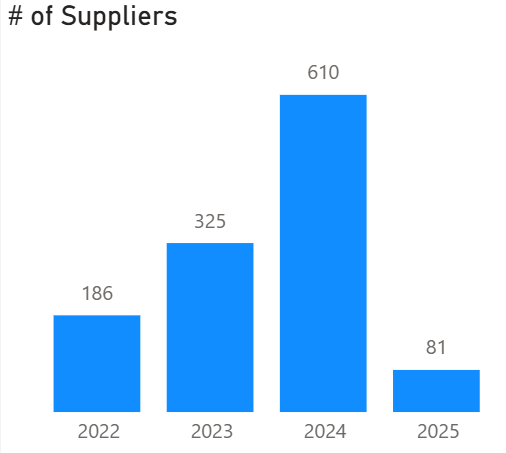
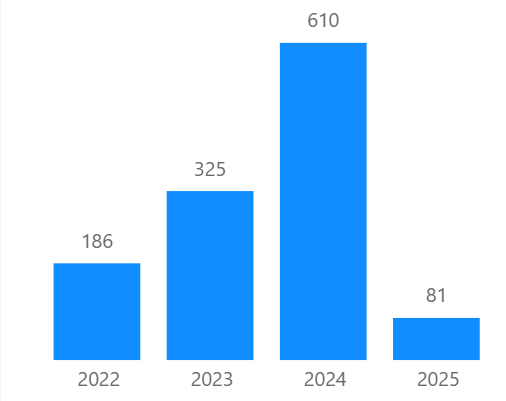
Final update

diff --git a/README.md b/README.md
@@ -194,7 +194,8 @@ You can download the Power BI dashboard [here](code/LeuleuReport.pbix):
 - The **Monthly Volume of Orders chart** supports this observation, showing that while **average items per order have declined each year, average orders per month have significantly increased** (except for 2025, which currently only includes January—a historically low-order month).
 - The **Supplier Summary Table** provides insights into this strategy. The number of suppliers increased from **186 in 2022 to 325 in 2023, and 610 in 2024—a 200% annual growth rate**. This suggests the business is actively **sourcing from more suppliers** to **diversify its product offerings**, leading to an increase in order frequency while reducing the quantity per order.
 
-     <img src='image/Num_of_supplier.png' width=500>
+     <img src='image/Num_of_supplier.png' width=300 >
+     <figcaption>Bar chart demonstrating the number of suppliers per year</figcaption>
 
 #### Supplier performance
 - Discounts were **nonexistent in 2022-2023 (0%)** but rose to **2% in 2024 and 7% in 2025**, indicating a **more aggressive discounting strategy in recent years**.
